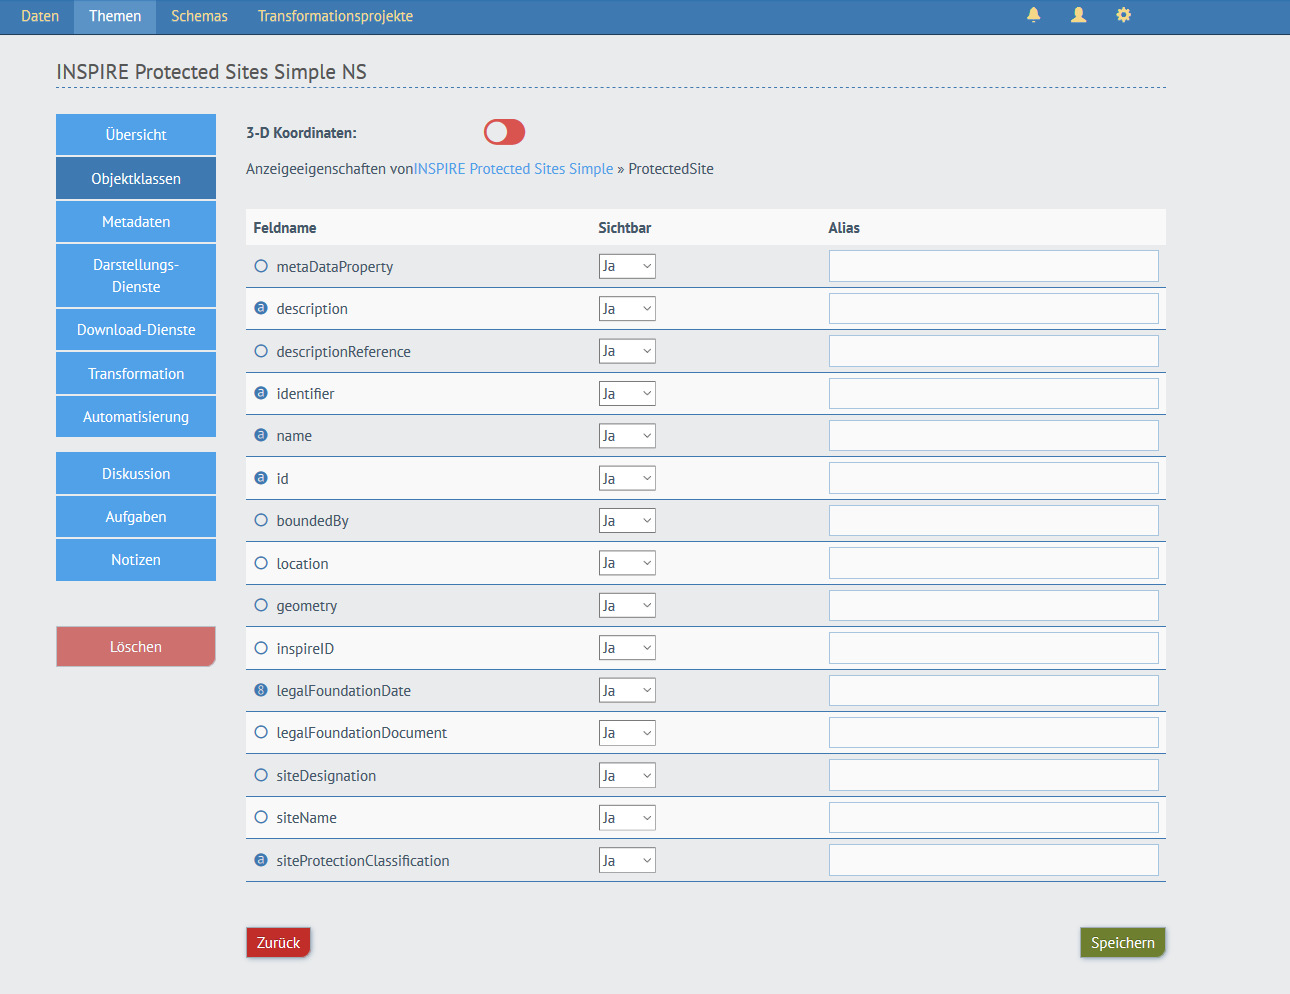
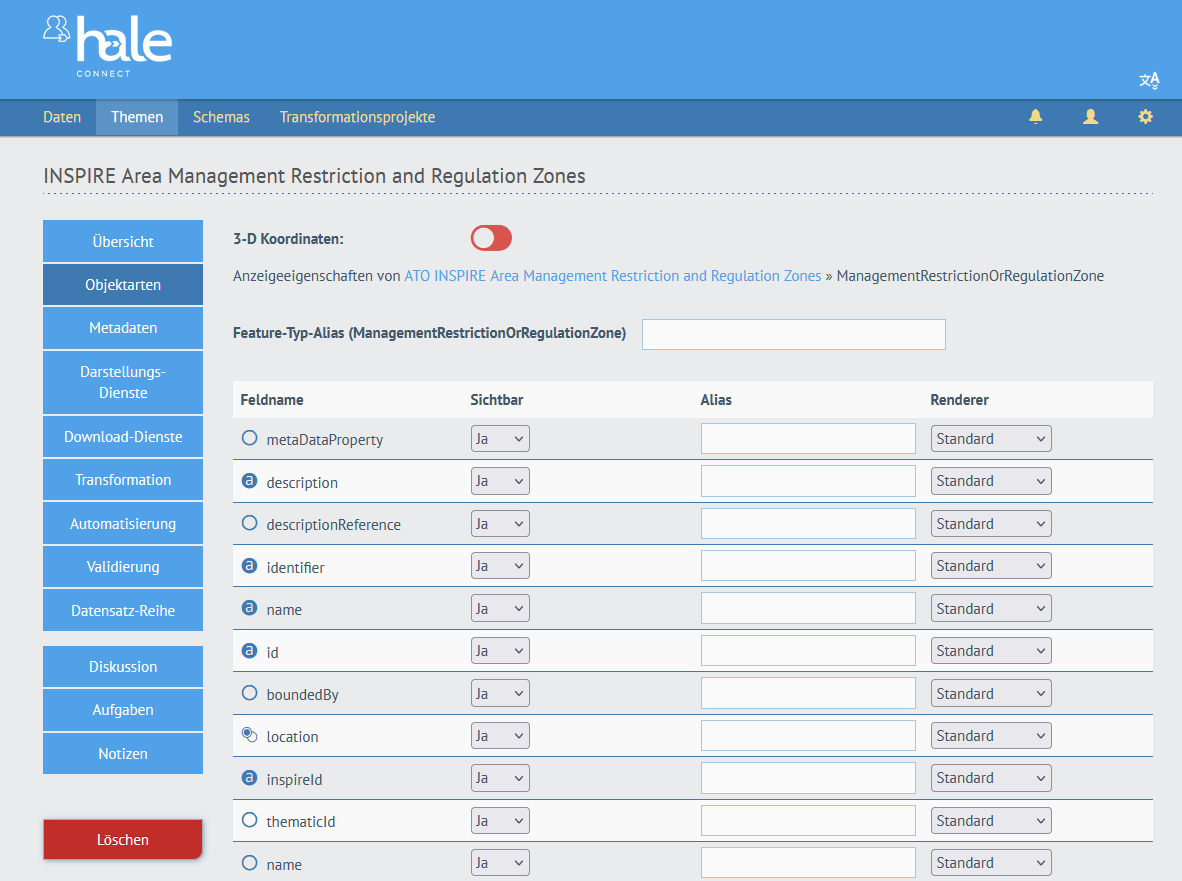
feat: add layers, renderers, useConstraints documentation is added.

diff --git a/docs/setup-hc/edit-metadata-config/2015-02-10-theme-edit-metadata.md b/docs/setup-hc/edit-metadata-config/2015-02-10-theme-edit-metadata.md
@@ -281,7 +281,7 @@ The Autofill assistant provides several options for you to choose from. To popul
             "type": "string",
             "schema": null,
             "defaultValue": null,
-            "autofillRule":  {% raw %}"{{fileAnalysis.attributeValues.SchoolDistrict.SchoolDistrictFeatures.NAME}}"{% endraw %},
+            "autofillRule": "{{fileAnalysis.attributeValues.SchoolDistrict.SchoolDistrictFeatures.NAME}}",
             "visibility": true,
             "editable": true,
             "targets": {
@@ -338,8 +338,8 @@ hale»connect enables users to provide multiple autofill rules in a theme's meta
              "schema": null,
              "defaultValue": null
              "autofillRule": [
-                 {% raw %}"{{fileAnalysis.attributeValues.SchoolDistrict.SchoolDistrictFeatures.NAME}}"{% endraw %},
-                 {% raw %}"{{fileAnalysis.attributeValues.SchoolDistrict.SchoolDistrictFeatures.NUMBER}}"{% endraw %}
+                 "{{fileAnalysis.attributeValues.SchoolDistrict.SchoolDistrictFeatures.NAME}}",
+                 "{{fileAnalysis.attributeValues.SchoolDistrict.SchoolDistrictFeatures.NUMBER}}"
                  ],
              "visibility": true,
              "editable": true,
@@ -454,6 +454,45 @@ The ``defaultValue`` field can be populated with free text, provided in double q
                 }
             }
 
+### Adding more than one ```otherConstraints``` element
+
+hale»connect supports the configuration of multiple ```otherConstraints``` elements. In the ```defaultValue``` field shown below, an array of three, comma-separated string values creates three separate ```otherConstraints``` elements.
+
+            {
+              "name": "md-dataset.identification.constraints.useConstraints",
+              "required": false,
+              "minOccurs": 0,
+              "maxOccurs": -1,
+              "comment": "MD_Metadata/identificationInfo//resourceConstraints//useConstraints",
+              "label": "Use constraints",
+              "description": "Access constraints applied to assure the protection of privacy or intellectual property, and any special restrictions or limitations on obtaining the resource.",
+              "type": "enum",
+              "schema": null,
+              "defaultValue": "defaultValue": [
+                    "Es gelten die Lizenzbedingungen „Datenlizenz Deutschland - Namensnennung - Version 2.0" bzw. „dl-de/by-2-0" (https://www.govdata.de/dl-de/by-2-0) mit den dort geforderten Angaben zum Quellenvermerk. Als Rechteinhaber und Bereitsteller ist „Stadt Hildesheim", sowie das Jahr des Datenbezugs in Klammern anzugeben. Beispiel für Quellenvermerk: Stadt Hildesheim (2023) Datenlizenz Deutschland - Namensnennung - Version 2.0 (www.govdata.de/dl-de/by-2-0).",
+                    "{\"id\":\"dl-de-zero-2.0\",\"name\":\"Datenlizenz Deutschland - Zero - Version 2.0\",\"url\":\"https://www.govdata.de/dl-de/zero-2-0\",\"quelle\":\"Quelle: Stadt Hildesheim\"}",
+                    "Die Daten können den Lizenzbedingungen entsprechend genutzt werden. Die Stadt Hildesheim übernimmt keine Gewähr für die Fehlerfreiheit ihrer Produkte, die Richtigkeit und Vollständigkeit der Daten. Es wird jede Haftung für Schäden ausgeschlossen, die bei Nutzern direkt oder indirekt durch die Geodatennutzung entstehen."
+                ],
+              "autofillRule": null,
+              "visibility": true,
+              "editable": true,
+              "openValue": true,
+              "enumValues": [
+                  {
+                      "label": "No conditions apply to access and use",
+                      "value": "noConditionsApply"
+                  },
+                  {
+                      "label": "The conditions applying to access and use are unknown",
+                      "value": "conditionsUnknown"
+                  },
+                  {
+                      "label": "Datenlizenz Deutschland - Zero - Version 2.0",
+                      "value": "[Datenlizenz Deutschland - Zero - Version 2.0](https://www.govdata.de/dl-de/zero-2-0)"
+                  }
+              ],
+
+
 ### Working with gmx:Anchor elements in string fields
 
 hale»connect supports the use of gmx:Anchor encoding for gco:CharacterString elements that exist in hale»connect generated metadata. Markdown style notation can be used to specify a text value and URL. A gmx:Anchor encoded element can be generated using the pattern: \[<text\>\](<link\>)
@@ -493,8 +532,7 @@ In the following example, a gmx:Anchor is added as ``defaultValue`` and it is ad
               ],
 
 
-
-#### Adding JSON values in string fields
+### Adding JSON values in string fields
 
 JSON values can be added to string fields in the metadata editor. The JSON values must be escaped before they are added to the metadata configuration. In the example below, a JSON value is added as ``defaultValue`` and it is added to the ``enumValues`` field.
 

diff --git a/docs/create-manage-datasets/map-preview/2014-01-02-map-preview.md b/docs/create-manage-datasets/map-preview/2014-01-02-map-preview.md
@@ -16,23 +16,27 @@ The map preview is a simple web map application that enables the viewing of publ
 
 The layer widget contains:
 
-    * Legend Information,
-    * the options to turn layers on and off, and
-    * the option to filter raster datasets for display within a dataset series
+* Legend Information,
+* the option to add external WMS layers,
+* the options to turn layers on and off, and
+* the option to filter raster datasets for display within a dataset series
 
 # Select single datasets in a dataset series #
 
 For published dataset series services, click on the filter icon within the layer widget to invoke the dataset selection dialog and select the sub-datasets for display.
+<img src={require("/images/help/en/series.png").default} alt="Selected sub-datasets in the layer widget" title="Selected sub-datasets in the layer widget" className="img-responsive img-inline-help"/>
+
+# Add an external WMS layer #
+
+The layer widget supports the option to add external WMS layers to the map preview so that external layers can be viewed together with hale»connect services. Additional hale»connect services can also be added. Click on the plus sign in the Layers panel to add your WMS. You can arrange the order of layers in the layer list to configure the display of layers in the map preview.
 
 # Add a custom basemap #
 
-The layer widget also offers the option to supply a custom basemap URL. Visit the following documentation page for more information about adding a custom WMS basemap to your organisation: [Adding an organisation](../../users-roles-orgs/manage-orgs/2015-03-04-users-add-organisation).
+The layer widget also offers the option to supply a custom basemap URL. Click on the plus sign in the Basemap panel to add your URL. Visit the following documentation page for more information about adding a custom WMS basemap to your organisation: [Adding an organisation](../../users-roles-orgs/manage-orgs/2015-03-04-users-add-organisation).
 
 # Add external WMS as background map #
 
 In addition, the layer widget supports the option to add external WMS services to the map preview so that external services can be viewed alongside hale»connect services.
-
-<img src={require("/images/help/en/series.png").default} alt="Selected sub-datasets in the layer widget" title="Selected sub-datasets in the layer widget" className="img-responsive img-inline-help"/>
 
 The map preview includes a responsive scale widget, including scale factor and cursor coordinate display in the bottom right hand corner of the application. Coordinates can be entered to update the extent of the map and zoom to a particular location.
 

diff --git a/docs/setup-hc/create-a-theme/2015-02-01-theme-edit-view-config.md b/docs/setup-hc/create-a-theme/2015-02-01-theme-edit-view-config.md
@@ -9,7 +9,7 @@ language: en
 ---
 
 
-A common issue with type and property names from data schemas is that they are hard to understand. They tend to be cryptic abbreviations, especially when they come from a Shapefile, or are defined using a foreign language. To provide effective view services despite this, you can define display properties which are then used for legends and GetFeatureInfo popups.
+A common issue with type and property names from data schemas is that they are hard to understand. They tend to be cryptic abbreviations, especially when they come from a Shapefile, or are defined using a foreign language. To provide effective view services despite this, you can define display properties which are then used for legends and GetFeatureInfo popups. hale»connect supports the configuration aliases for feature type names and feature properties.
 
 To set display properties, follow these steps as a logged in theme manager or organisation superuser:
 
@@ -19,3 +19,19 @@ To set display properties, follow these steps as a logged in theme manager or or
 4.	Click on the properties of the feature type for which you'd like to edit the display properties
 5.	In the table that appears, first decide which fields you want to be visible in a popup by setting the &laquo;Display&raquo; property to &laquo;Yes&raquo;, and then pick an &laquo;Alias&raquo; for those that should be visible.<img src={require("/images/help/en/property_editing.png").default} alt="" title="Editing feature type properties" className="img-responsive img-inline-help"/>
 6.	Save your configuration by clicking on the &laquo;Save&raquo; button at the end of the table.
+
+# Formatting display values #
+
+The renderer enables users to control the formatting of values displayed in the Feature Explorer. Users have the option to select one of the following renderers:
+
+* Default (no renderer)
+* Formatted number (enter a number format, e.g. ###.##)
+* Formatted Date (choose a date format option)
+* Codelist Labels (substitute coded values can be provided in lookup table)
+    * semicolon separated CSV or valid JSON values can be provided
+    * the first column must contain values found in the data and the second column must contain the display values
+
+Here is an example of how to substitute coded values using labels provided through a lookup table:
+<img src={require("/images/help/en/renderer.png").default} alt="" title="Substitute coded values using labels" className="img-responsive img-inline-help"/>
+
+To edit applied renderers, click on the gear symbol to make your changes.

diff --git a/i18n/de/docusaurus-plugin-content-docs/current/setup-hc/edit-metadata-config/2015-02-10-theme-edit-metadata.md b/i18n/de/docusaurus-plugin-content-docs/current/setup-hc/edit-metadata-config/2015-02-10-theme-edit-metadata.md
@@ -275,7 +275,7 @@ Der Autofill Assistent bietet ihnen mehrere Optionen an, zwischen denen sie wäh
             "type": "string",
             "schema": null,
             "defaultValue": null,
-            "autofillRule":  {% raw %}"{{fileAnalysis.attributeValues.SchoolDistrict.SchoolDistrictFeatures.NAME}}"{% endraw %},
+            "autofillRule": "{{fileAnalysis.attributeValues.SchoolDistrict.SchoolDistrictFeatures.NAME}}",
             "visibility": true,
             "editable": true,
             "targets": {
@@ -337,8 +337,8 @@ Mit hale»connect können Benutzende mehrere Autofill-Regeln in der Metadatenkon
               "schema": null,
               "defaultValue": null
               "autofillRule":[
-                    {% raw %}"{{fileAnalysis.attributeValues.SchoolDistrict.SchoolDistrictFeatures.NAME}}"{% endraw %},
-                    {% raw %}"{{fileAnalysis.attributeValues.SchoolDistrict.SchoolDistrictFeatures.NUMBER}}"{% endraw %}
+                    "{{fileAnalysis.attributeValues.SchoolDistrict.SchoolDistrictFeatures.NAME}}",
+                    "{{fileAnalysis.attributeValues.SchoolDistrict.SchoolDistrictFeatures.NUMBER}}"
                   ],
               "visibility": true,
               "editable": true,

diff --git a/i18n/de/docusaurus-plugin-content-docs/current/create-manage-datasets/map-preview/2014-01-02-map-preview.md b/i18n/de/docusaurus-plugin-content-docs/current/create-manage-datasets/map-preview/2014-01-02-map-preview.md
@@ -16,9 +16,9 @@ Die Kartenansicht ist eine einfache Web-Anwendung, die die Anzeige von veröffen
 
 Das Layer-Widget enthält
 
-    * Legendeninformationen,
-    * die Option zum Ein- und Ausschalten von Layern und
-    * die Option zum Filtern von Raster-Datensätzen für die Anzeige innerhalb einer Datensatzserie.
+* Legendeninformationen,
+* die Option zum Ein- und Ausschalten von Layern und
+* die Option zum Filtern von Raster-Datensätzen für die Anzeige innerhalb einer Datensatzserie.
 
 # Auswahl von Einzeldatensätzen einer Datensatzserie #
 
